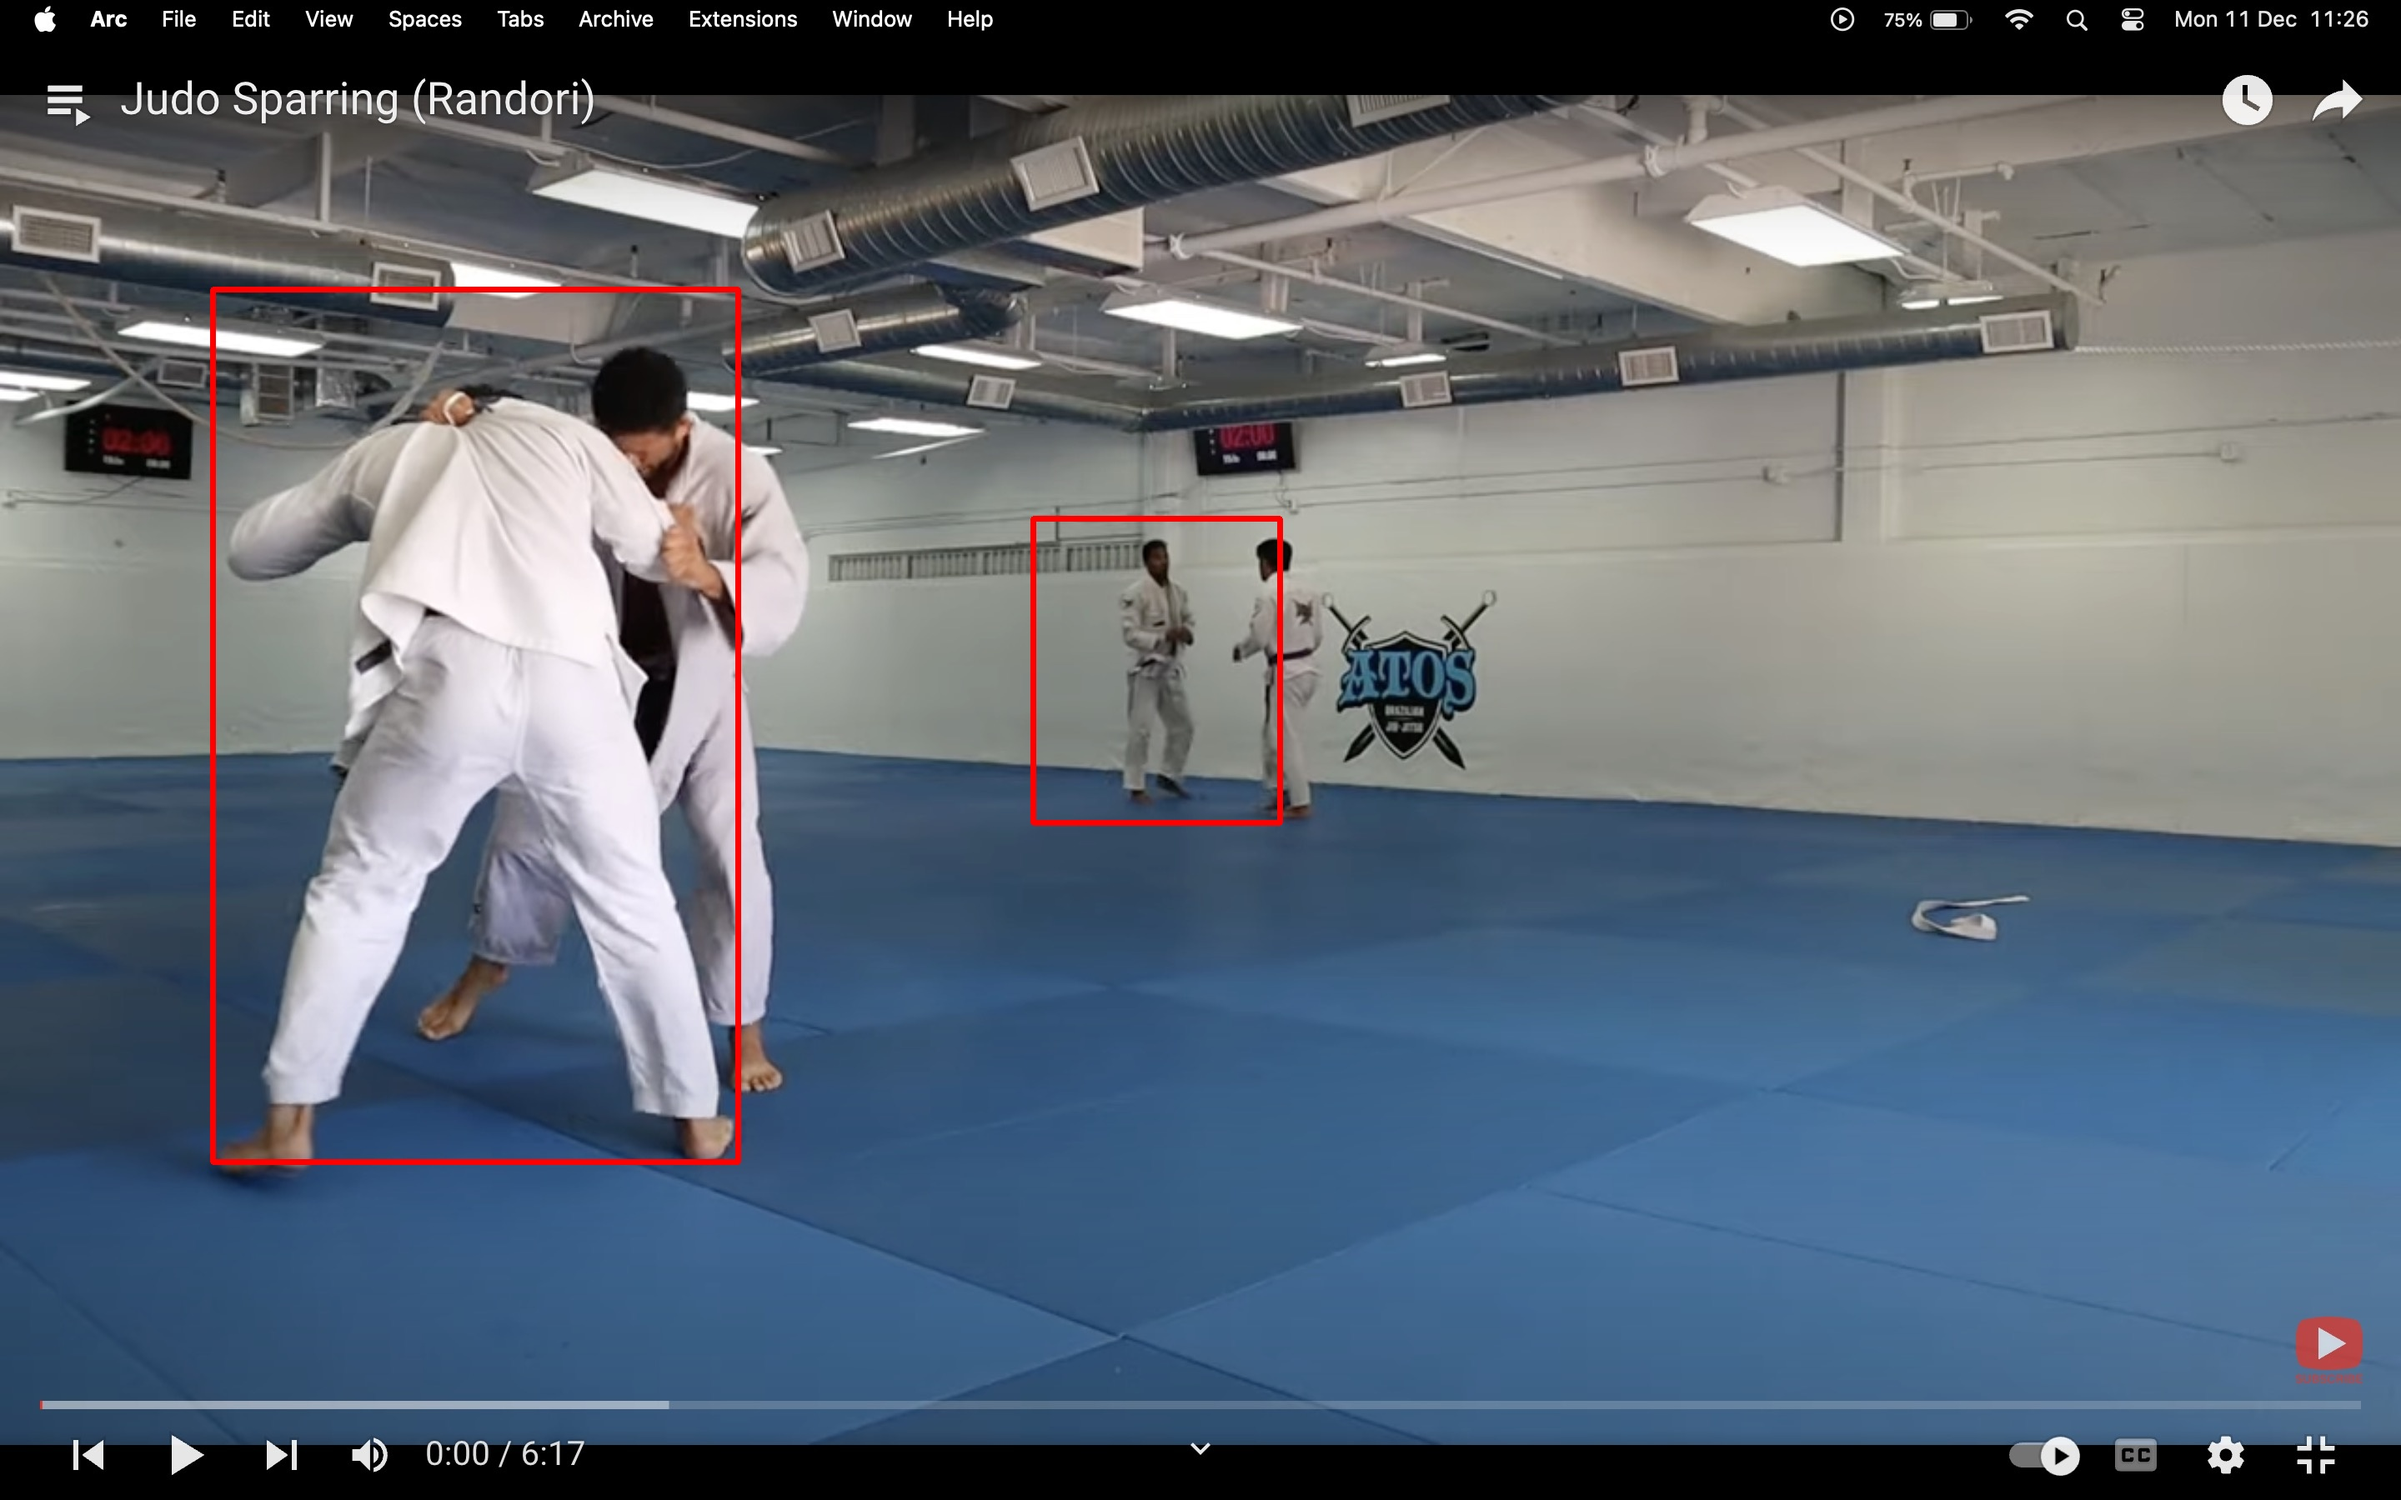
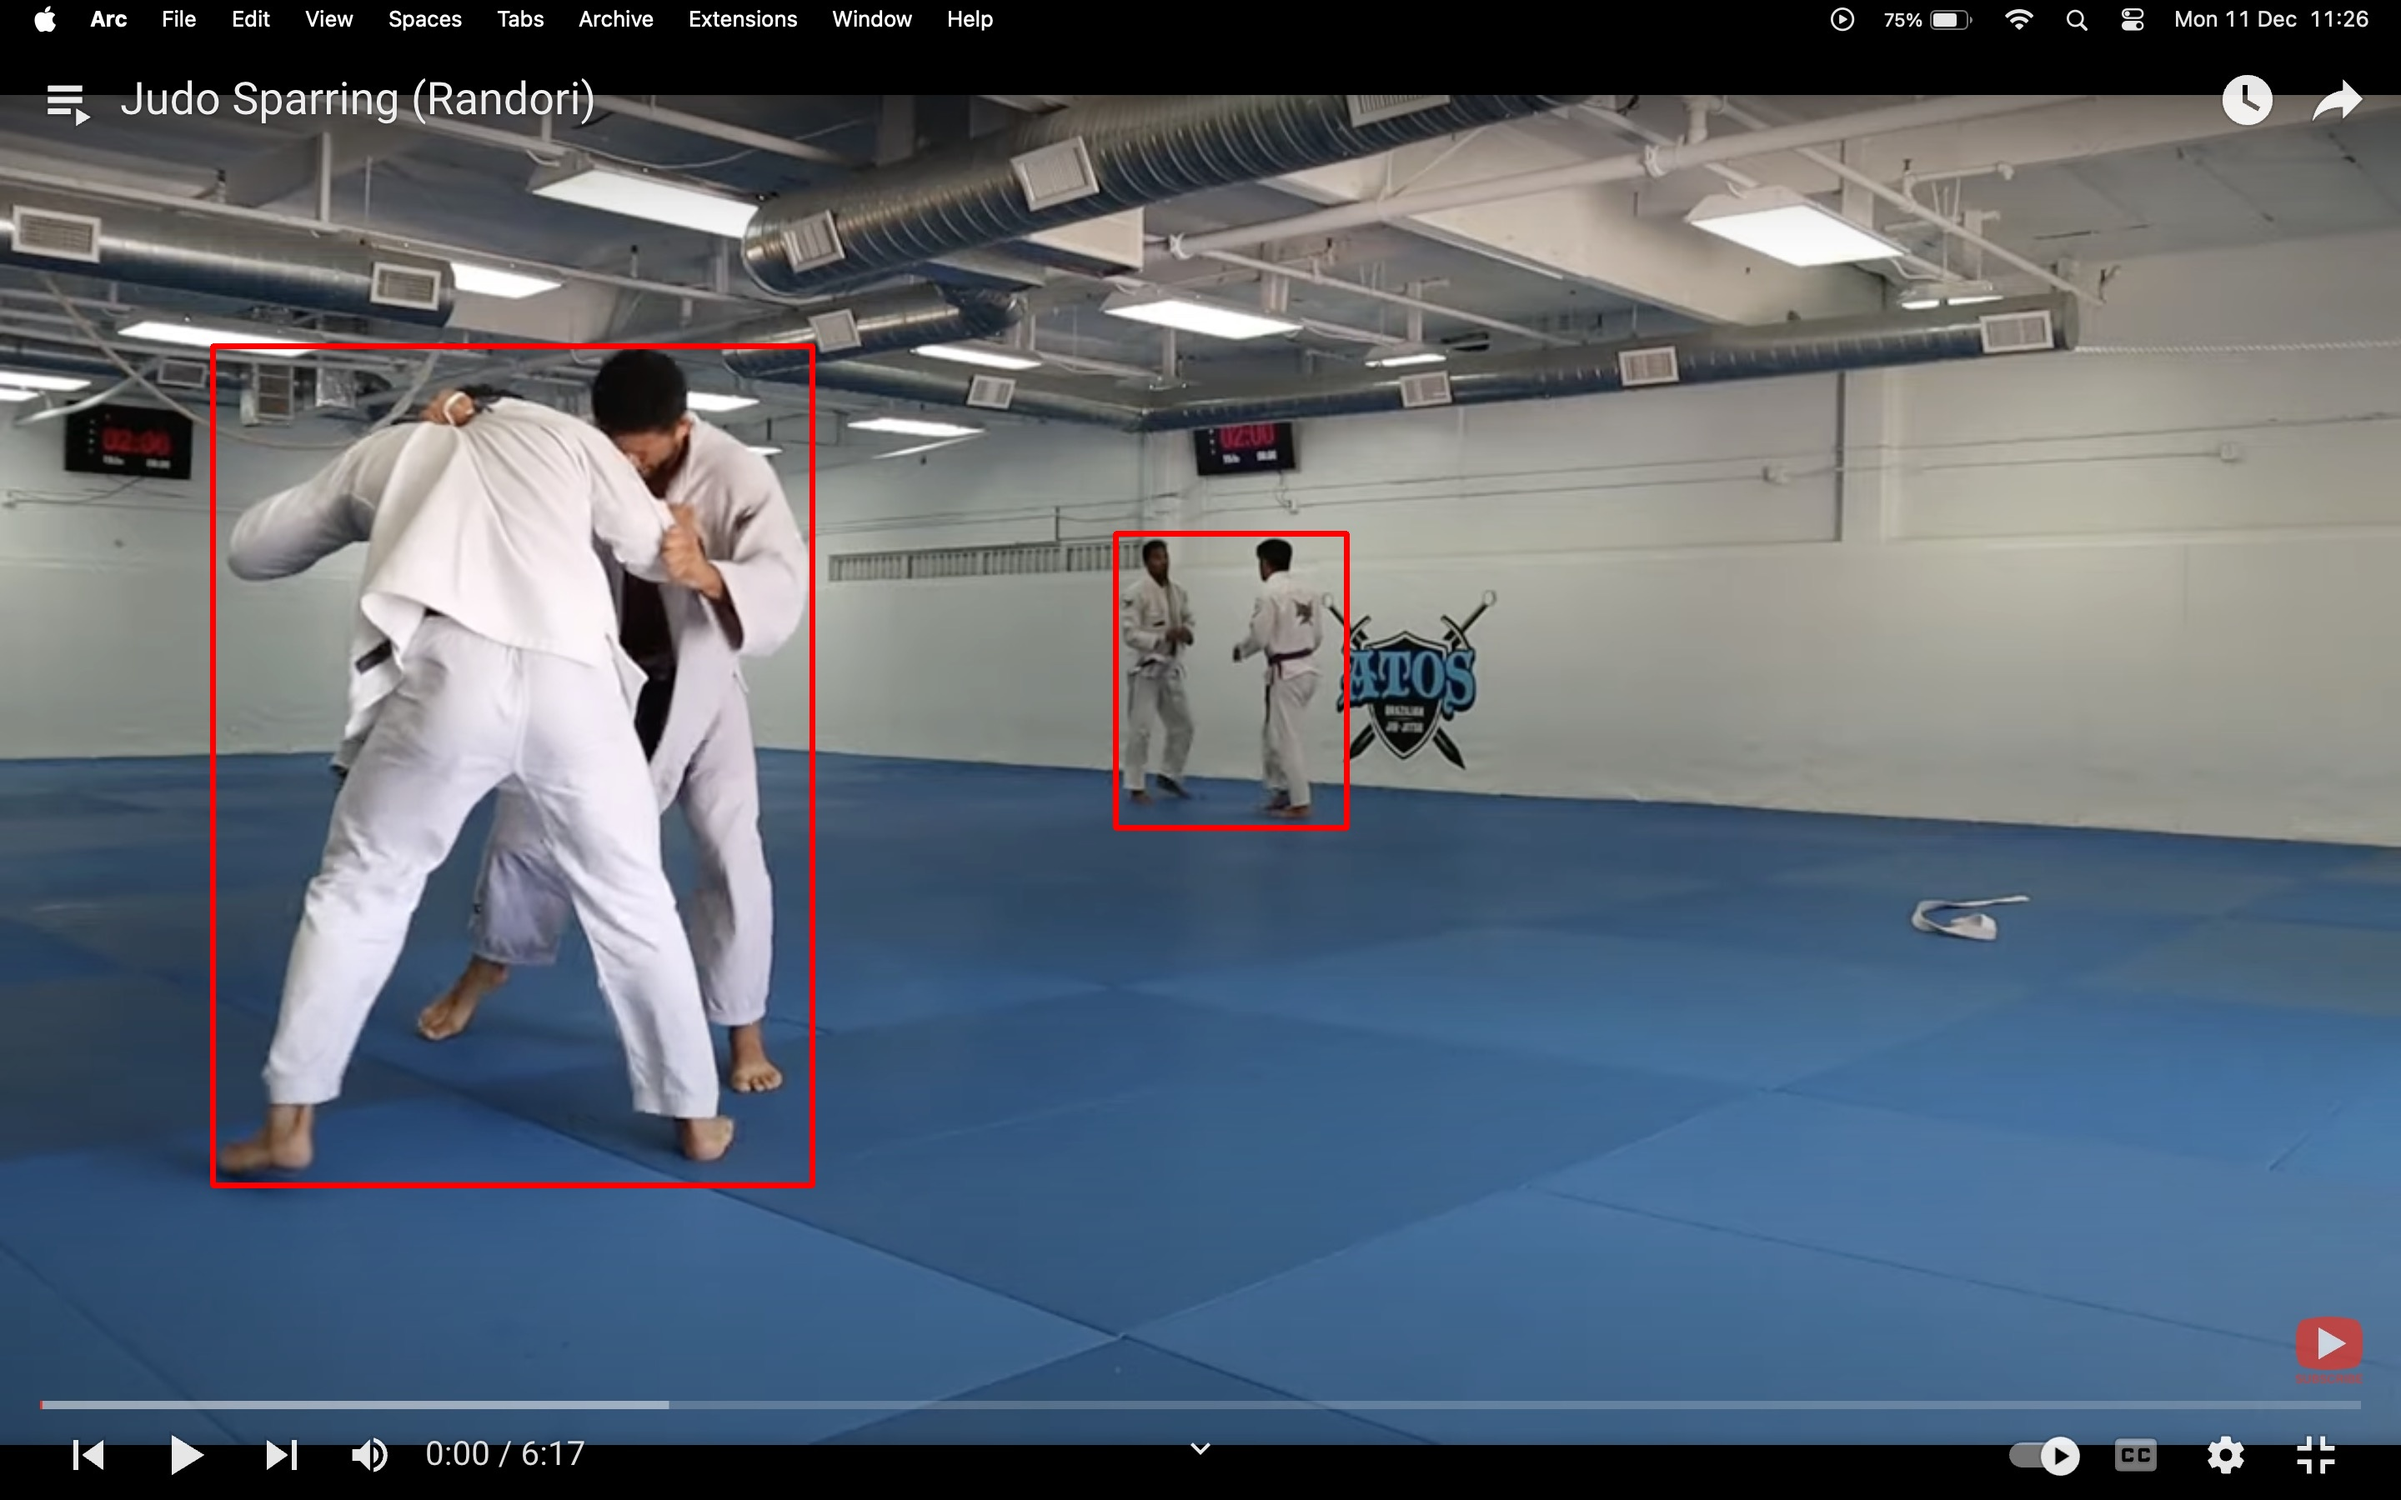
merge logic(intersection and relative dimensions)

diff --git a/combine_bounding_boxes.py b/combine_bounding_boxes.py
@@ -21,9 +21,24 @@ def mergeable(box1, box2, x_val=100, y_val=100):
         y4,
     ) = box2
 
-    return not (
+    intersection_check = not (
         (x3>x_val+x2 or x4+x_val<x1) or (y3>y2+y_val or y4+y_val<y1)
     )
+
+
+    w1 = x2-x1
+    w2 = x4-x3
+    h1 = y2-y1
+    h2 = y4-y3
+
+    dimension_check = not ( (w1<.5*w2 and h1<.5*h2) or (w2<.5*w1 and h2<.5*h1))
+
+    area1 = w1*h1
+    area2 = w2*h2
+
+    # area_check = not ( (area1<.5*area2) or (area2<.5*area1) )
+    
+    return intersection_check and dimension_check
 
     # return (
     #     max(x1, x2) - min(x1, x2) - minx_w(x1, w1, x2, w2) < x_val
@@ -89,18 +104,16 @@ def draw_boxes(t, img, ind):
         # )
         # img = im_arr
 
-    # cv2.imwrite(f'starter_images/merged{ind}.jpg', img)
+    cv2.imwrite(f'starter_images/merged{ind}.jpg', img)
     fin_img = Image.fromarray(img[..., ::-1])
-    fin_img.show()
+    # fin_img.show()
 
 
 t = []
 bounding_boxes = []
 
-# , 'starter_images/img2.jpg', 'starter_images/img3.jpg'
-
 results = model.predict(
-    ["starter_images/img1.jpg"], classes=[0], show_conf=False, show_labels=False
+    ["starter_images/img1.jpg", 'starter_images/img2.jpg', 'starter_images/img3.jpg'], classes=[0], show_conf=False, show_labels=False
 )
 for i, r in enumerate(results):
     
